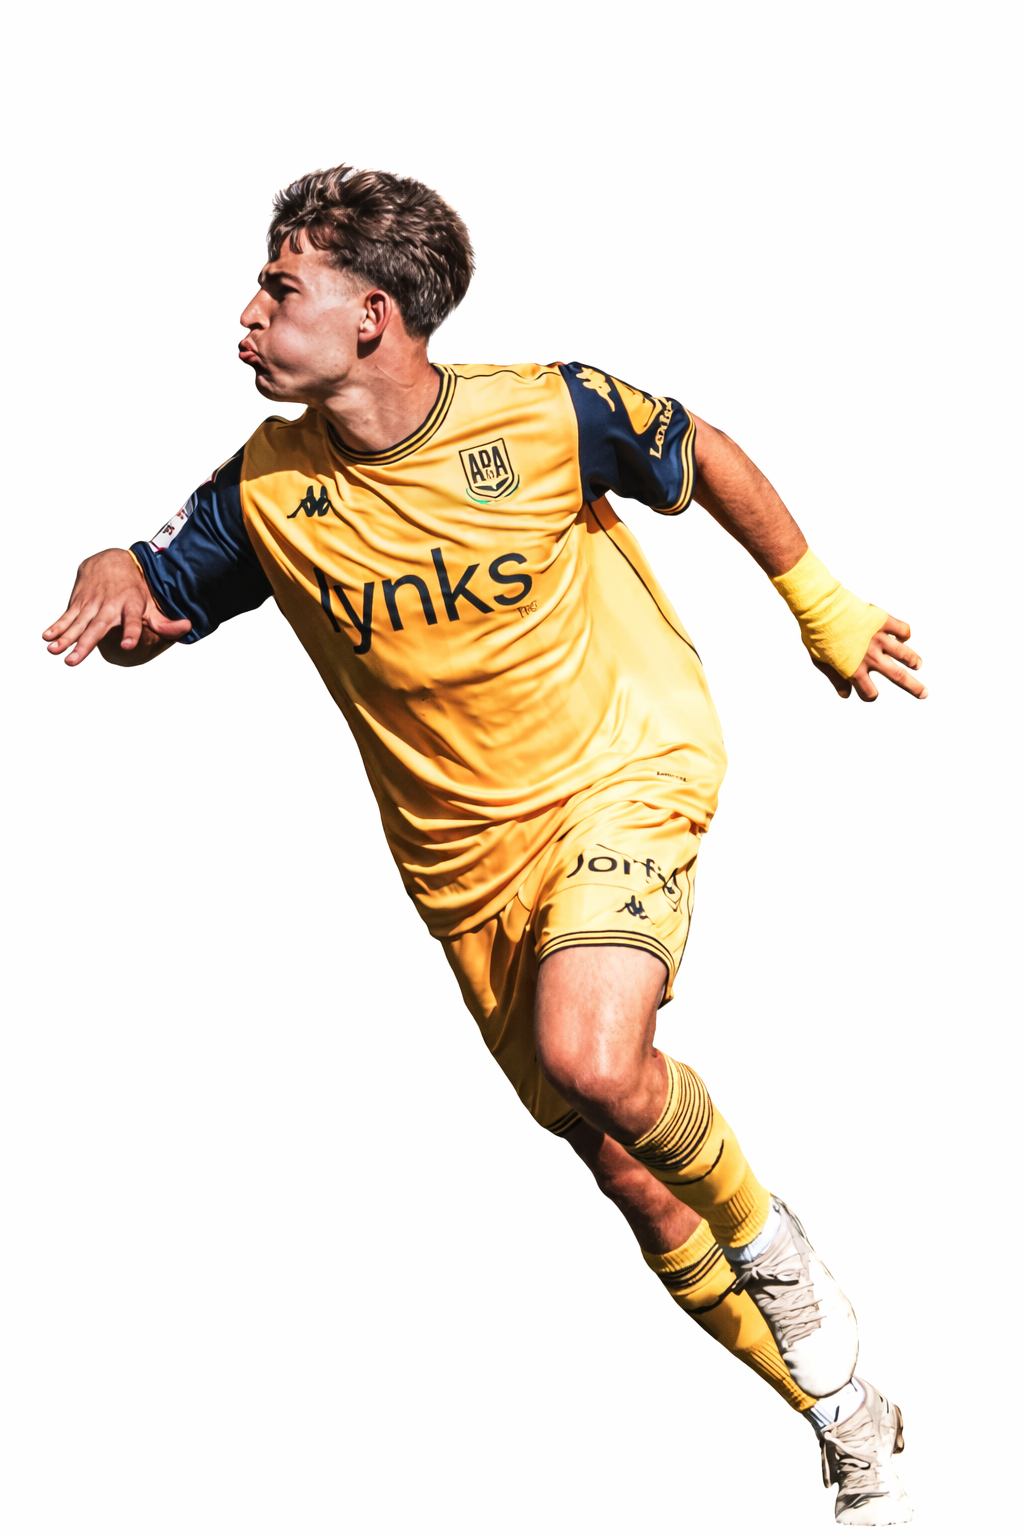
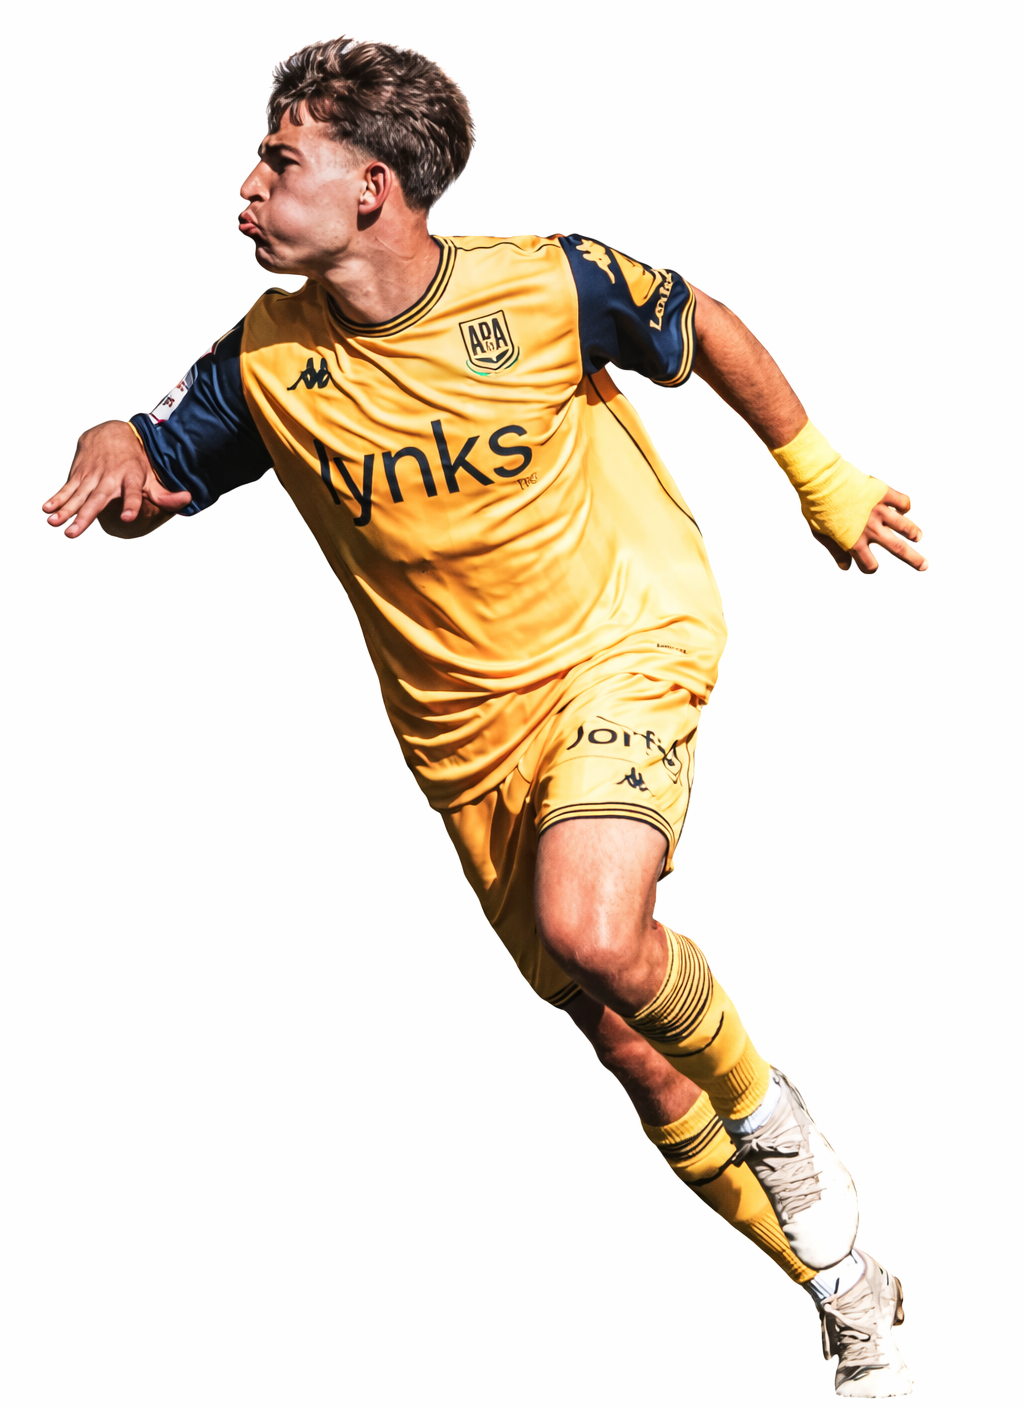
Cambios en css , html y fotos editadas

Changed region(s): [[0.0312, 0.0, 0.9062, 1.0]]

diff --git a/Alcorcon.html b/Alcorcon.html
@@ -58,7 +58,7 @@ get<!DOCTYPE html>
             <div class="jugador"><img src="Imagenes/Ivan perez.jpg"><span class="numero">6</span>
                 <p>Ivan Perez</p>
             </div>
-            <div class="jugador"><img src="Imagenes/poldomingo.png"><span class="numero">2</span>
+            <div class="jugador"><img src="Imagenes/POL DOMINGO.png"><span class="numero">2</span>
                 <p>Pol Domingo</p>
             </div>
 
@@ -72,7 +72,7 @@ get<!DOCTYPE html>
             <div class="jugador"><img src="Imagenes/Luis_Vacas-1.png"><span class="numero">10</span>
                 <p>Luis Vacas</p>
             </div>
-            <div class="jugador"><img src="Imagenes/Raul-Blanco-e1756200572737.jpg"><span class="numero">8</span>
+            <div class="jugador"><img src="Imagenes/Raul Blanco.png"><span class="numero">8</span>
                 <p>Raul Blanco </p>
             </div>
             <div class="jugador"><img src="imagenes/David Navarro.png"><span class="numero">5</span>

diff --git a/style.css b/style.css
@@ -542,11 +542,19 @@ body {
   flex-direction: column;
   align-items: center;
   position: relative;
+  height: 330px;
 }
 
+
+
 .jugador img {
+
   width: 100%;
+  height: 230px;        
+  object-fit: cover;    
+  border-radius: 12px;
 }
+
 
 
 .numero {
